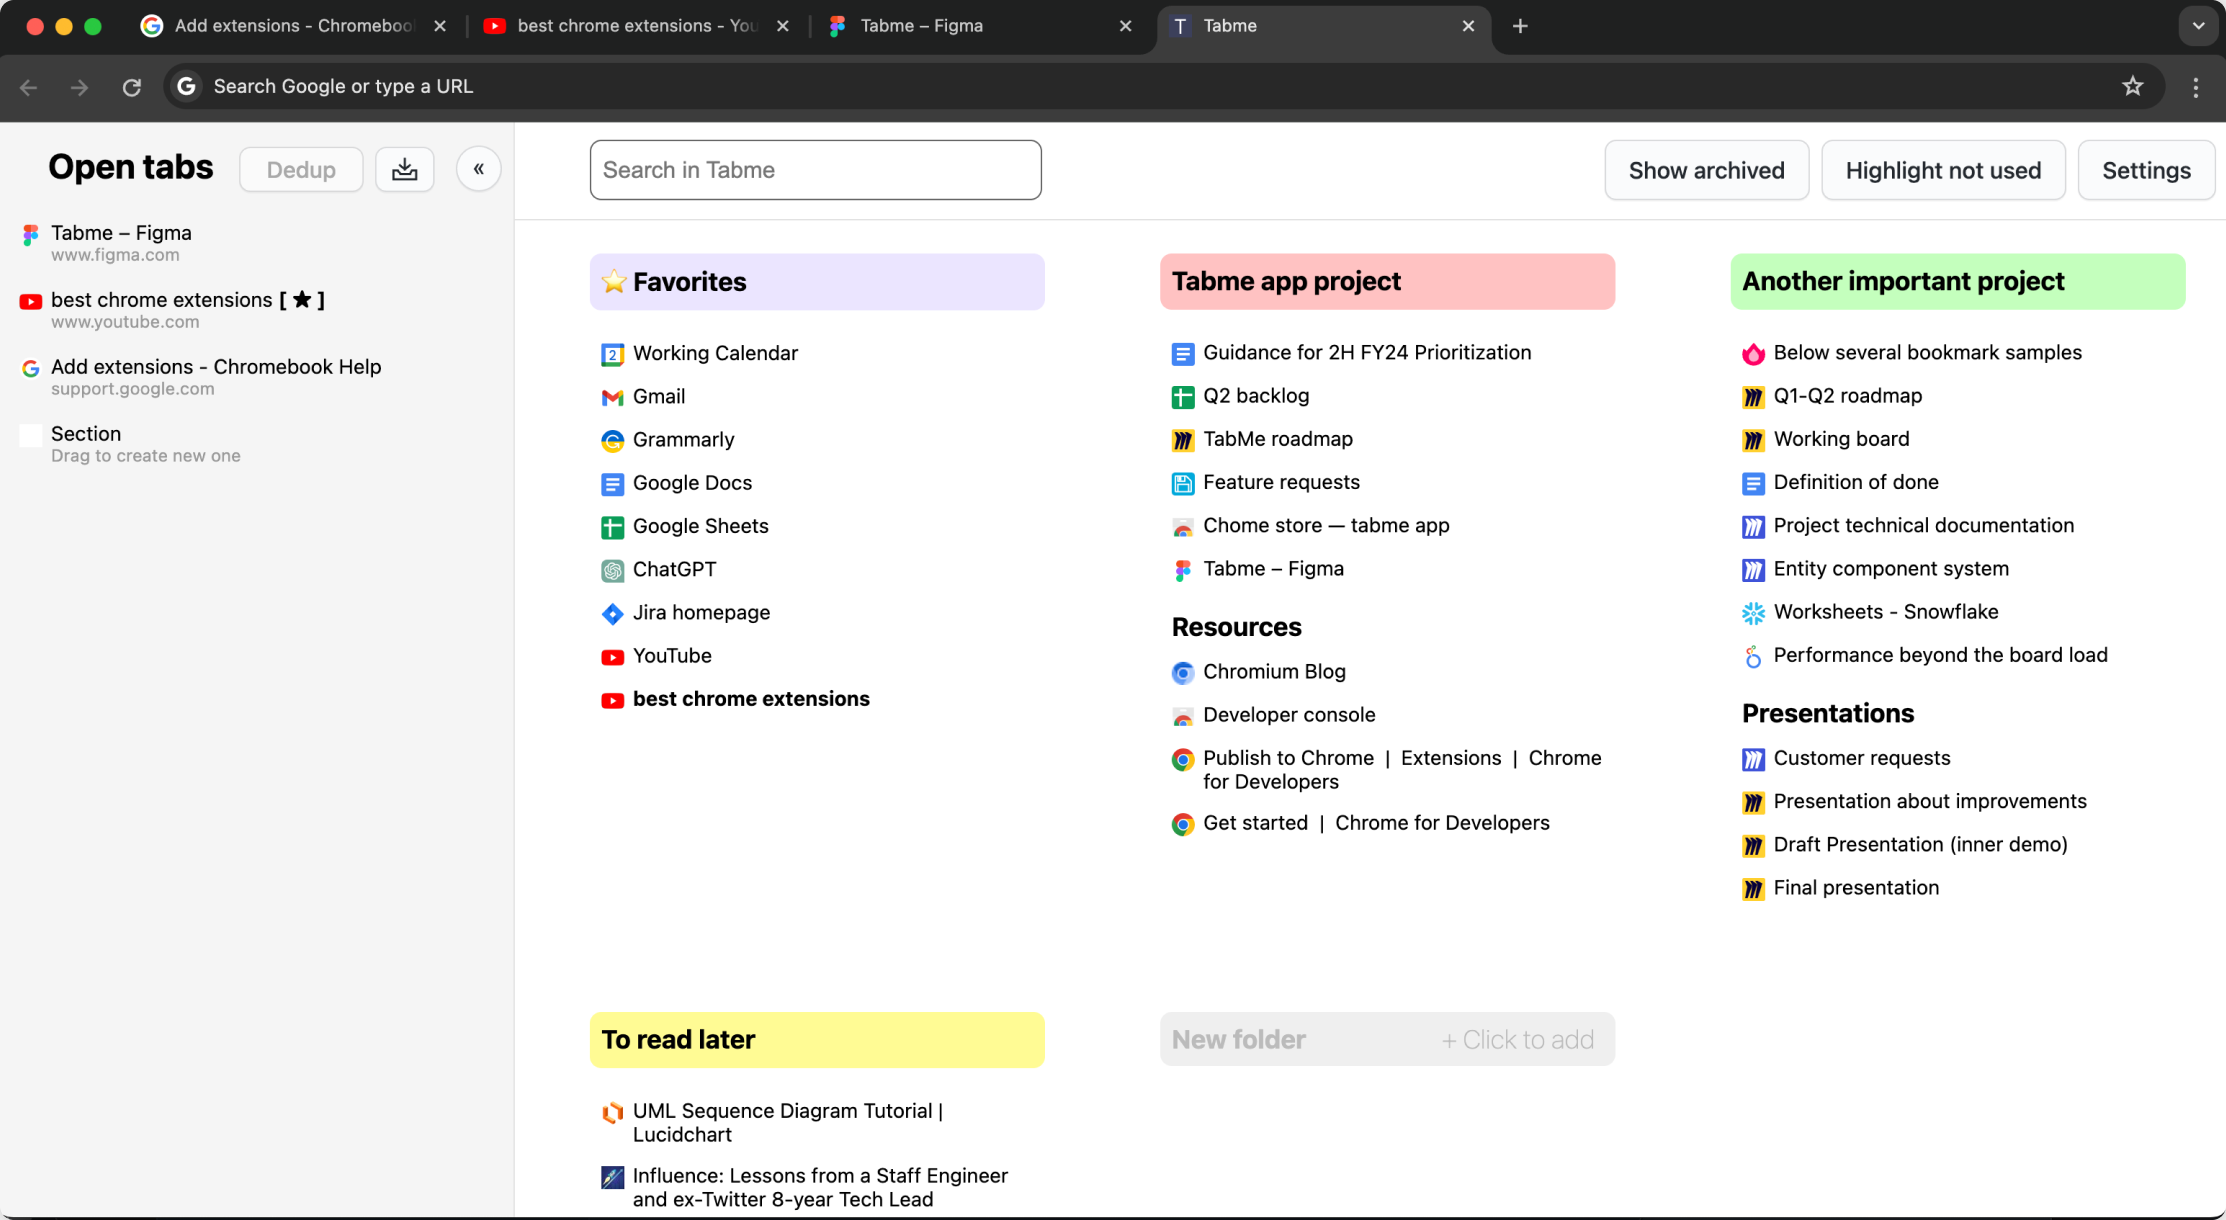
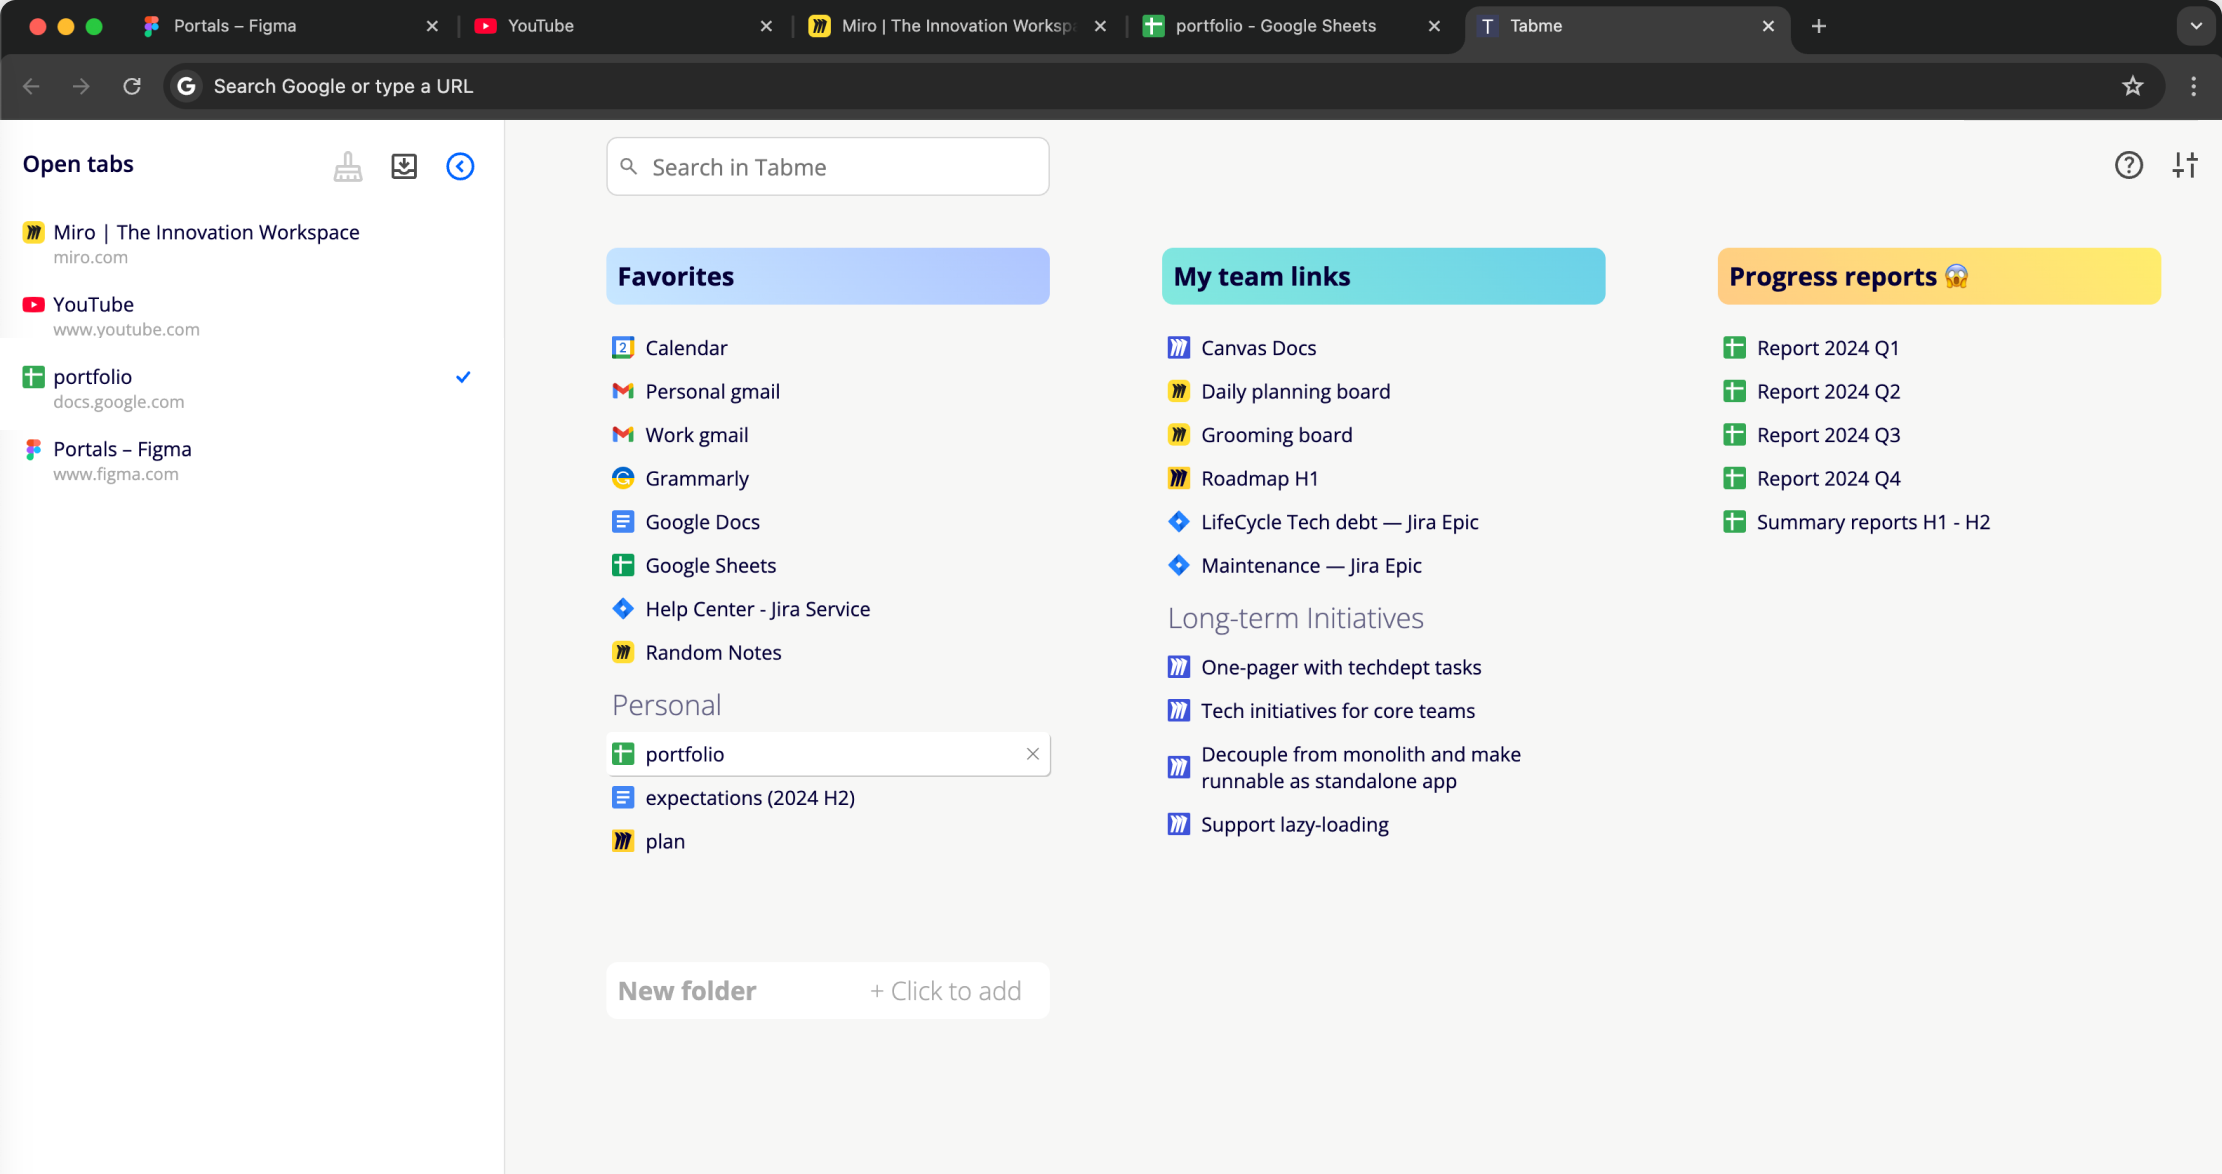
update site

diff --git a/index.html b/index.html
@@ -27,7 +27,7 @@
 
     <link rel="canonical" href="https://gettabme.com">
 
-    <title>Tabme — Organize Bookmarks and Tabs</title>
+    <title>Tabme — Organize Bookmarks and Tabs, Chrome Extension</title>
 
     <link rel="preconnect" href="https://fonts.googleapis.com">
 
@@ -51,7 +51,7 @@
     <a class="install-button"
        style="float: right"
        title="Chrome extension for organizing bookmarks and tabs"
-       href="https://chromewebstore.google.com/detail/tabme/jnhiookaaldadiimlgncedhkpmhlmmip">Install Tabme</a>
+       href="https://chromewebstore.google.com/detail/tabme/jnhiookaaldadiimlgncedhkpmhlmmip">Add to Chrome</a>
 
     <p>All your documents, one-click away in one screen. <br>
         Boost your productivity — turn chaotic browsing into a structured experience. <br>
@@ -97,16 +97,16 @@
 
     <a class="install-button"
        title="Chrome extension for organizing bookmarks and tabs"
-       href="https://chromewebstore.google.com/detail/tabme/jnhiookaaldadiimlgncedhkpmhlmmip">Install Tabme</a>
+       href="https://chromewebstore.google.com/detail/tabme/jnhiookaaldadiimlgncedhkpmhlmmip">Add to Chrome</a>
 
     <footer class="footer">
         <hr>
         <span>©2023 — 2024</span>
         <a href="mailto:gettabme@gmail.com">Contact</a>
-        <a href="/guide.html">Guide</a>
-        <a href="/faq.html">FAQ</a>
-        <a href="/changelog.html">Changelog</a>
-        <a href="/toby-alternative.html">Migrate from Toby</a>
+        <a href="guide.html">Guide</a>
+        <a href="faq.html">FAQ</a>
+        <a href="changelog.html">Changelog</a>
+        <a href="toby-alternative.html">Migrate from Toby</a>
         <a href="https://github.com/pltnkv/tabme">GitHub</a>
         <a href="/">Home</a>
     </footer>

diff --git a/styles.css b/styles.css
@@ -38,29 +38,40 @@ body {
     width: calc(100% + 120px);
     box-sizing: border-box;
     padding: 20px 60px 0px 60px;
-    background-color: #3C405B;
+    background: linear-gradient(180deg, #4F5896, #313760);
     margin-left: -60px;
     margin-bottom: 40px;
 
-    h1 {
-        margin-top: 0;
-        margin-bottom: 4px;
-    }
 
     img {
         display: block;
         margin: 0;
-        border-radius: 6px;
-        filter: drop-shadow(2px -2px 4px rgba(0, 0, 0, 0.3));
+        border-radius: 6px 6px 0 0;
+        filter: drop-shadow(2px -4px 4px rgba(0, 0, 0, 0.3));
     }
 
     h1, h2 {
-        color: #e4f4ff;
+        color: #FFF;
     }
-}
 
-.header img {
-    width: 100%;
+
+    h1 {
+        font-size: 3.8em;
+        font-weight: normal;
+
+        margin-top: 0;
+        margin-bottom: 0;
+    }
+
+    .goal-text {
+        font-size: 2em;
+        font-weight: 300;
+        margin-top: 0;
+    }
+
+    img {
+        width: 100%;
+    }
 }
 
 h1 {
@@ -83,13 +94,6 @@ h2 {
 .key-features p {
     margin-top: 6px;
     margin-bottom: 34px;
-}
-
-.goal-text {
-    font-size: 2em;
-    font-weight: 200;
-    margin-top: 0;
-    font-style: italic;
 }
 
 h3.goal-text {

diff --git a/faq.html b/faq.html
@@ -27,7 +27,7 @@
 
     <link rel="canonical" href="https://gettabme.com">
 
-    <title>Tabme — Organize Bookmarks and Tabs</title>
+    <title>Tabme: FAQ</title>
 
     <link rel="preconnect" href="https://fonts.googleapis.com">
 
@@ -105,9 +105,9 @@
         <hr>
         <span>©2023 — 2024</span>
         <a href="mailto:gettabme@gmail.com">Contact</a>
-        <a href="/guide.html">Guide</a>
-        <a href="/changelog.html">Changelog</a>
-        <a href="/toby-alternative.html">Migrate from Toby</a>
+        <a href="guide.html">Guide</a>
+        <a href="changelog.html">Changelog</a>
+        <a href="toby-alternative.html">Migrate from Toby</a>
         <a href="https://github.com/pltnkv/tabme">GitHub</a>
         <a href="/">Home</a>
     </footer>

diff --git a/guide.html b/guide.html
@@ -27,7 +27,7 @@
 
     <link rel="canonical" href="https://gettabme.com">
 
-    <title>Tabme — Organize Bookmarks and Tabs</title>
+    <title>Tabme: Guide</title>
 
     <link rel="preconnect" href="https://fonts.googleapis.com">
 
@@ -99,9 +99,9 @@
         <hr>
         <span>©2023 — 2024</span>
         <a href="mailto:gettabme@gmail.com">Contact</a>
-        <a href="/faq.html">FAQ</a>
-        <a href="/changelog.html">Changelog</a>
-        <a href="/toby-alternative.html">Migrate from Toby</a>
+        <a href="faq.html">FAQ</a>
+        <a href="changelog.html">Changelog</a>
+        <a href="toby-alternative.html">Migrate from Toby</a>
         <a href="https://github.com/pltnkv/tabme">GitHub</a>
         <a href="/">Home</a>
     </footer>

diff --git a/toby-alternative.html b/toby-alternative.html
@@ -27,7 +27,7 @@
 
     <link rel="canonical" href="https://gettabme.com">
 
-    <title>Tabme — Organize Bookmarks and Tabs</title>
+    <title>Tabme vs Toby</title>
 
     <link rel="preconnect" href="https://fonts.googleapis.com">
 
@@ -92,9 +92,9 @@
         <hr>
         <span>©2023 — 2024</span>
         <a href="mailto:gettabme@gmail.com">Contact</a>
-        <a href="/guide.html">Guide</a>
-        <a href="/faq.html">FAQ</a>
-        <a href="/changelog.html">Changelog</a>
+        <a href="guide.html">Guide</a>
+        <a href="faq.html">FAQ</a>
+        <a href="changelog.html">Changelog</a>
         <a href="https://github.com/pltnkv/tabme">GitHub</a>
         <a href="/">Home</a>
     </footer>

diff --git a/changelog.html b/changelog.html
@@ -27,7 +27,7 @@
 
     <link rel="canonical" href="https://gettabme.com">
 
-    <title>Tabme — Organize Bookmarks and Tabs</title>
+    <title>Tabme: Changelog</title>
 
     <link rel="preconnect" href="https://fonts.googleapis.com">
 
@@ -46,6 +46,9 @@
        href="https://chromewebstore.google.com/detail/tabme/jnhiookaaldadiimlgncedhkpmhlmmip">Add to Chrome</a>
 
     <h1>Tabme: Changelog</h1>
+
+    <h3>v1.24 — 3 Nov 2024</h3>
+    <p>Improvement: New polished UI</p>
 
     <h3>v1.22 — 30 oct 2024</h3>
     <p>Improvement: Improve setting menu</p>
